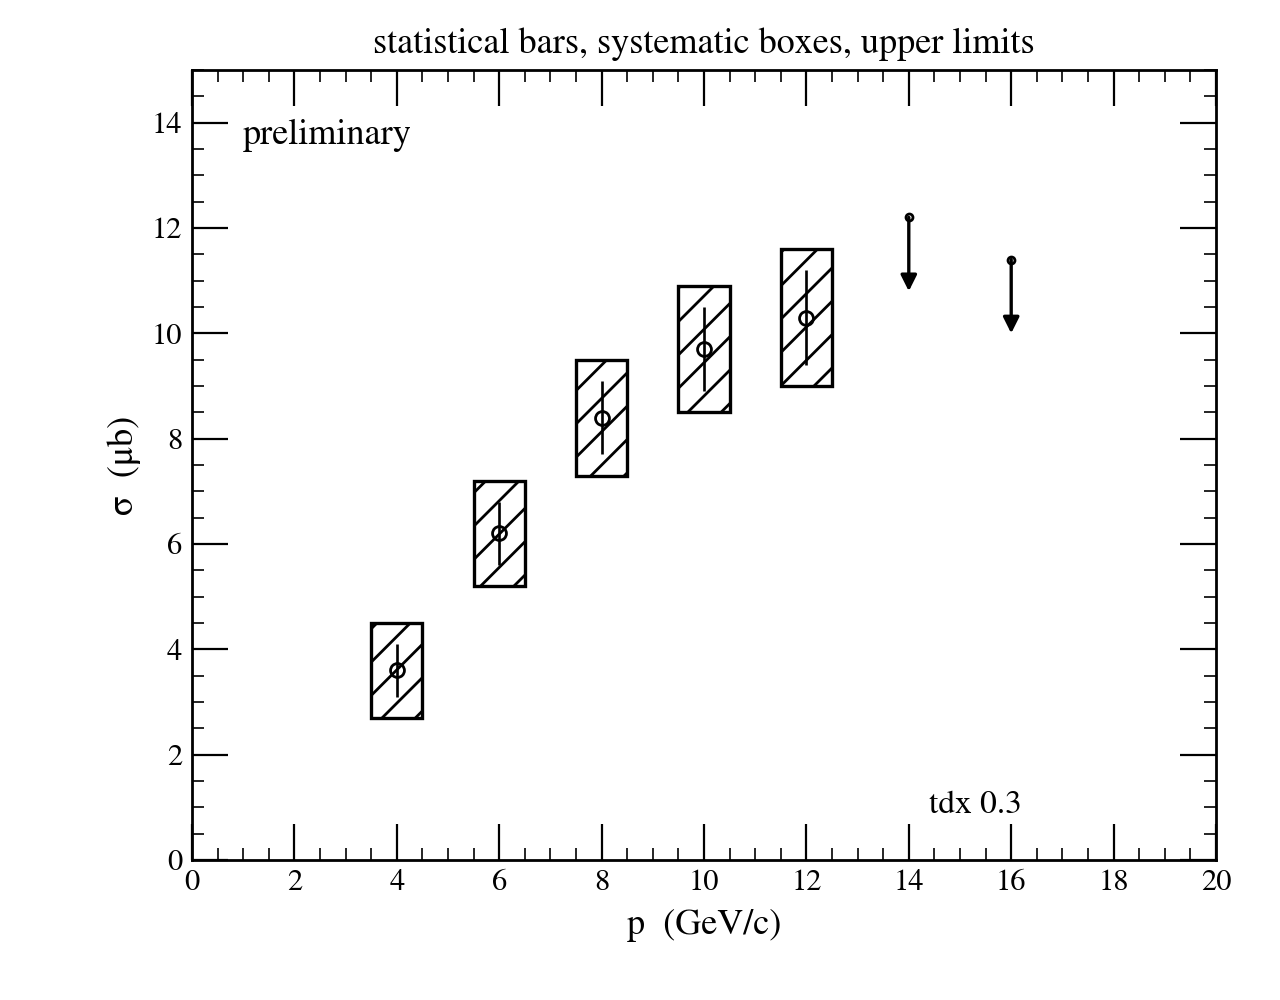
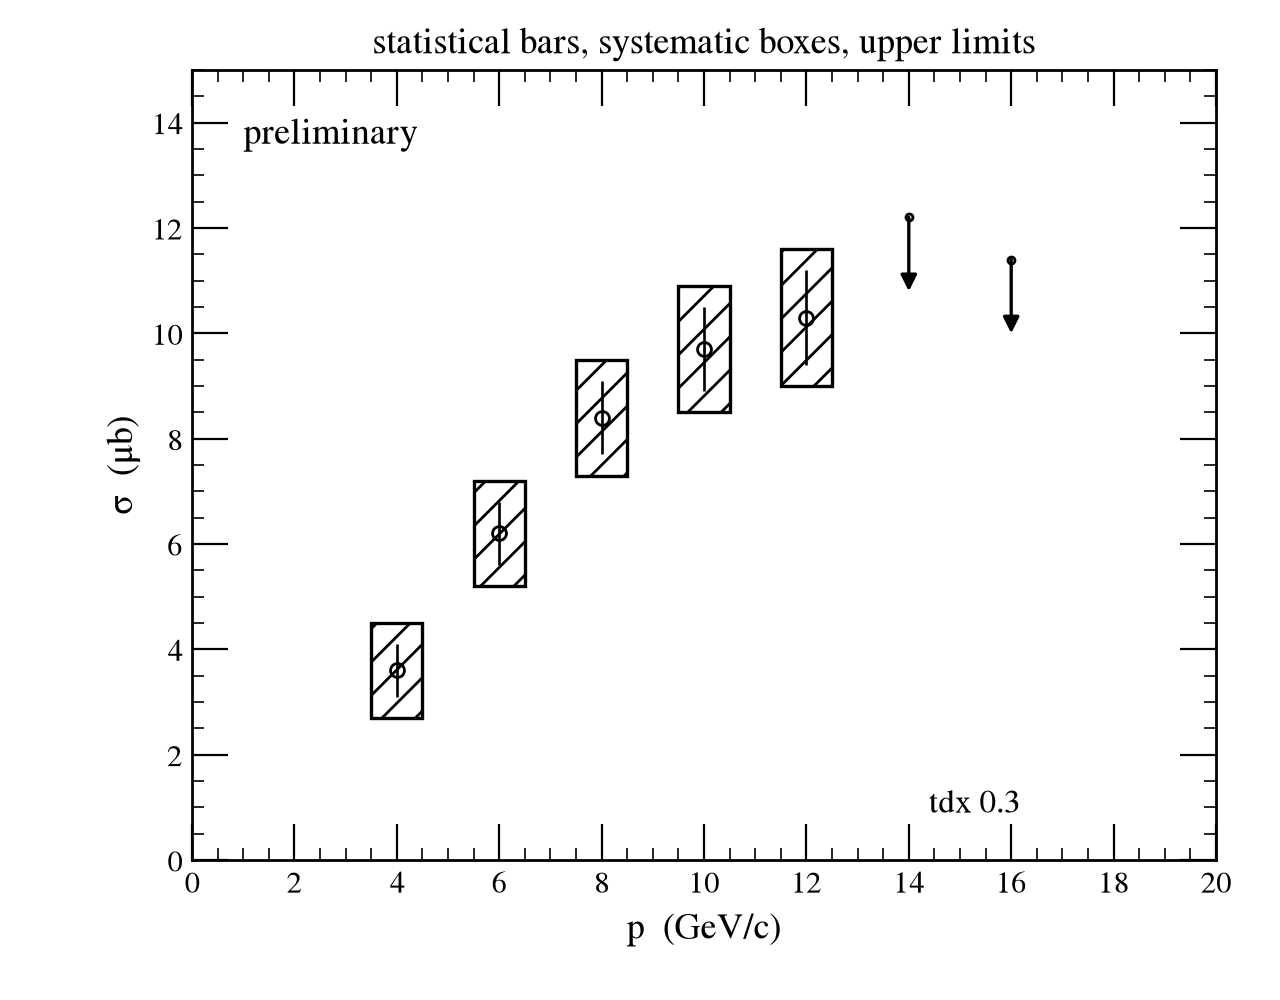
topdrawerx 0.6.1 no code change

diff --git a/src/topdrawerx/__init__.py b/src/topdrawerx/__init__.py
@@ -33,7 +33,7 @@ from .errors import (
 from .session import Context, Session, render_script, replay
 from . import commands  # noqa: F401  (importing this fills the registries)
 
-__version__ = "0.6.0"
+__version__ = "0.6.1"
 
 __all__ = [
     "Session",

diff --git a/CHANGELOG.md b/CHANGELOG.md
@@ -3,6 +3,10 @@
 Versions follow the milestones the project was built in. Until 1.0 the command
 grammar may still change; anything that does change is listed here.
 
+## 0.6.1 — Only re-rendering example plots
+
+- Only re-rendering example plots by `python tools/render_examples.py`
+
 ## 0.6.0 — fits and splines
 
 - `FIT LINE | POLY <n> | GAUSSIAN | EXPONENTIAL [FROM <x> TO <x>] [POINTS <n>]
